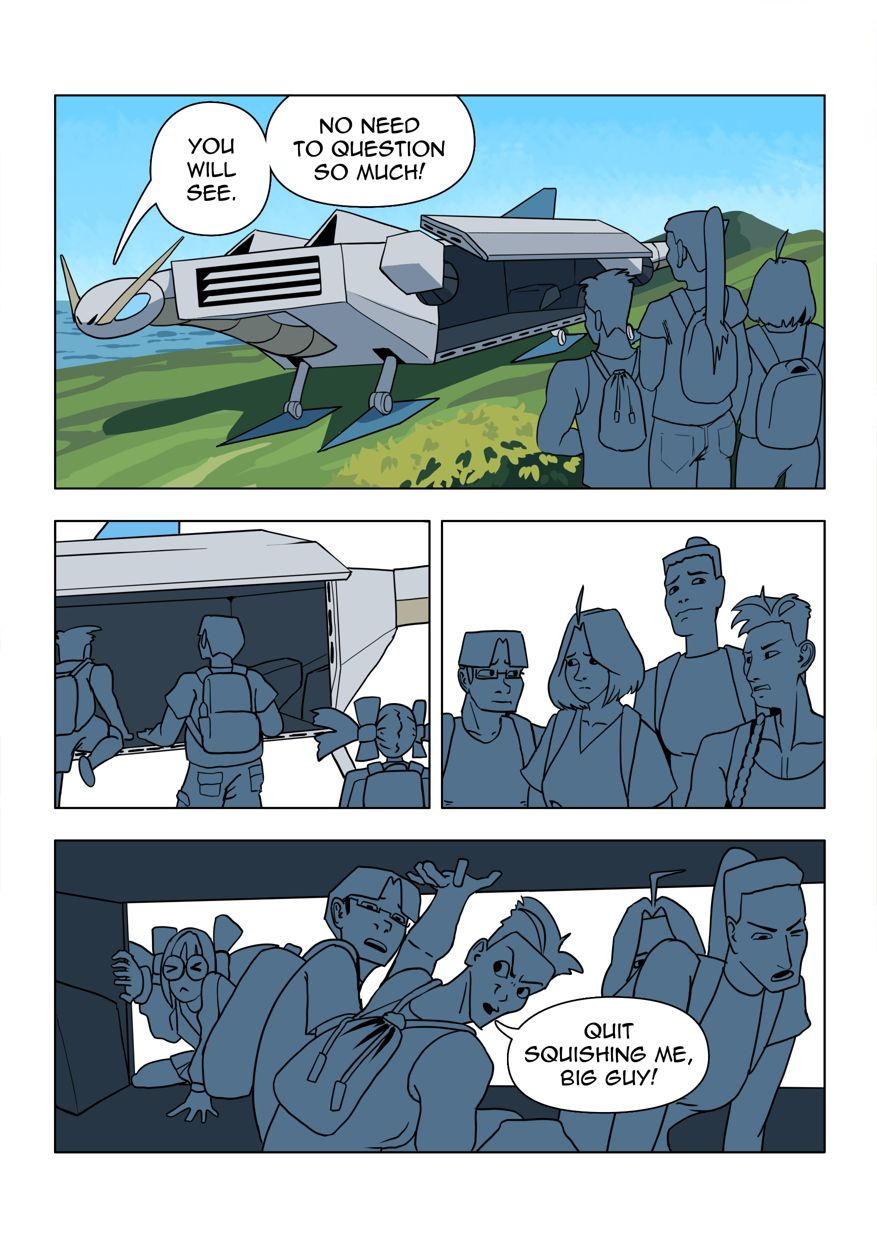
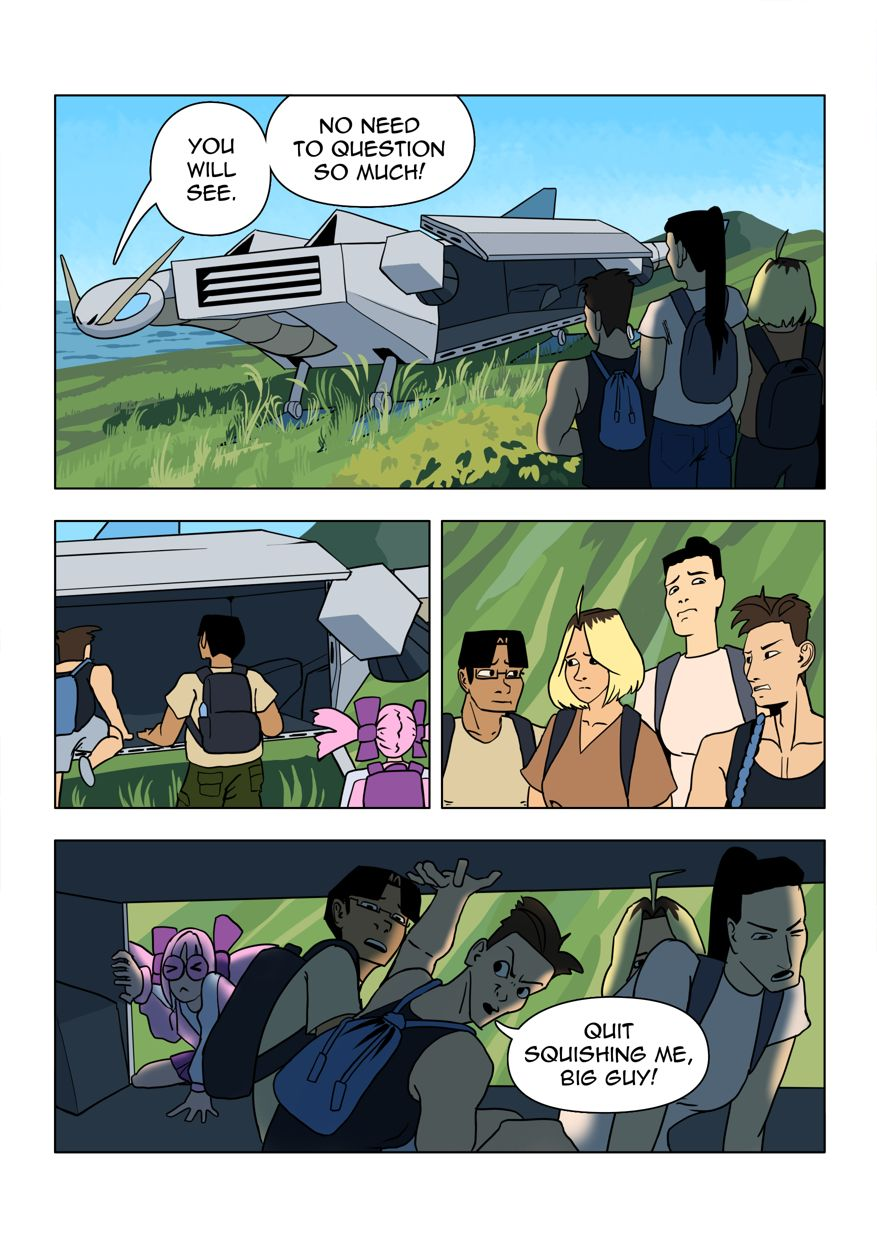
more preview pages

diff --git a/js/globalVariables.js b/js/globalVariables.js
@@ -5,6 +5,6 @@ const chapterNum = parseInt(params.get("ch"));
 
 const pagesLengths = [47, 19]
 const pagesLength = pagesLengths[chapterNum-1];
-const previewLength = 14;
+const previewLength = 18;
 
 const inVSCode = false;
